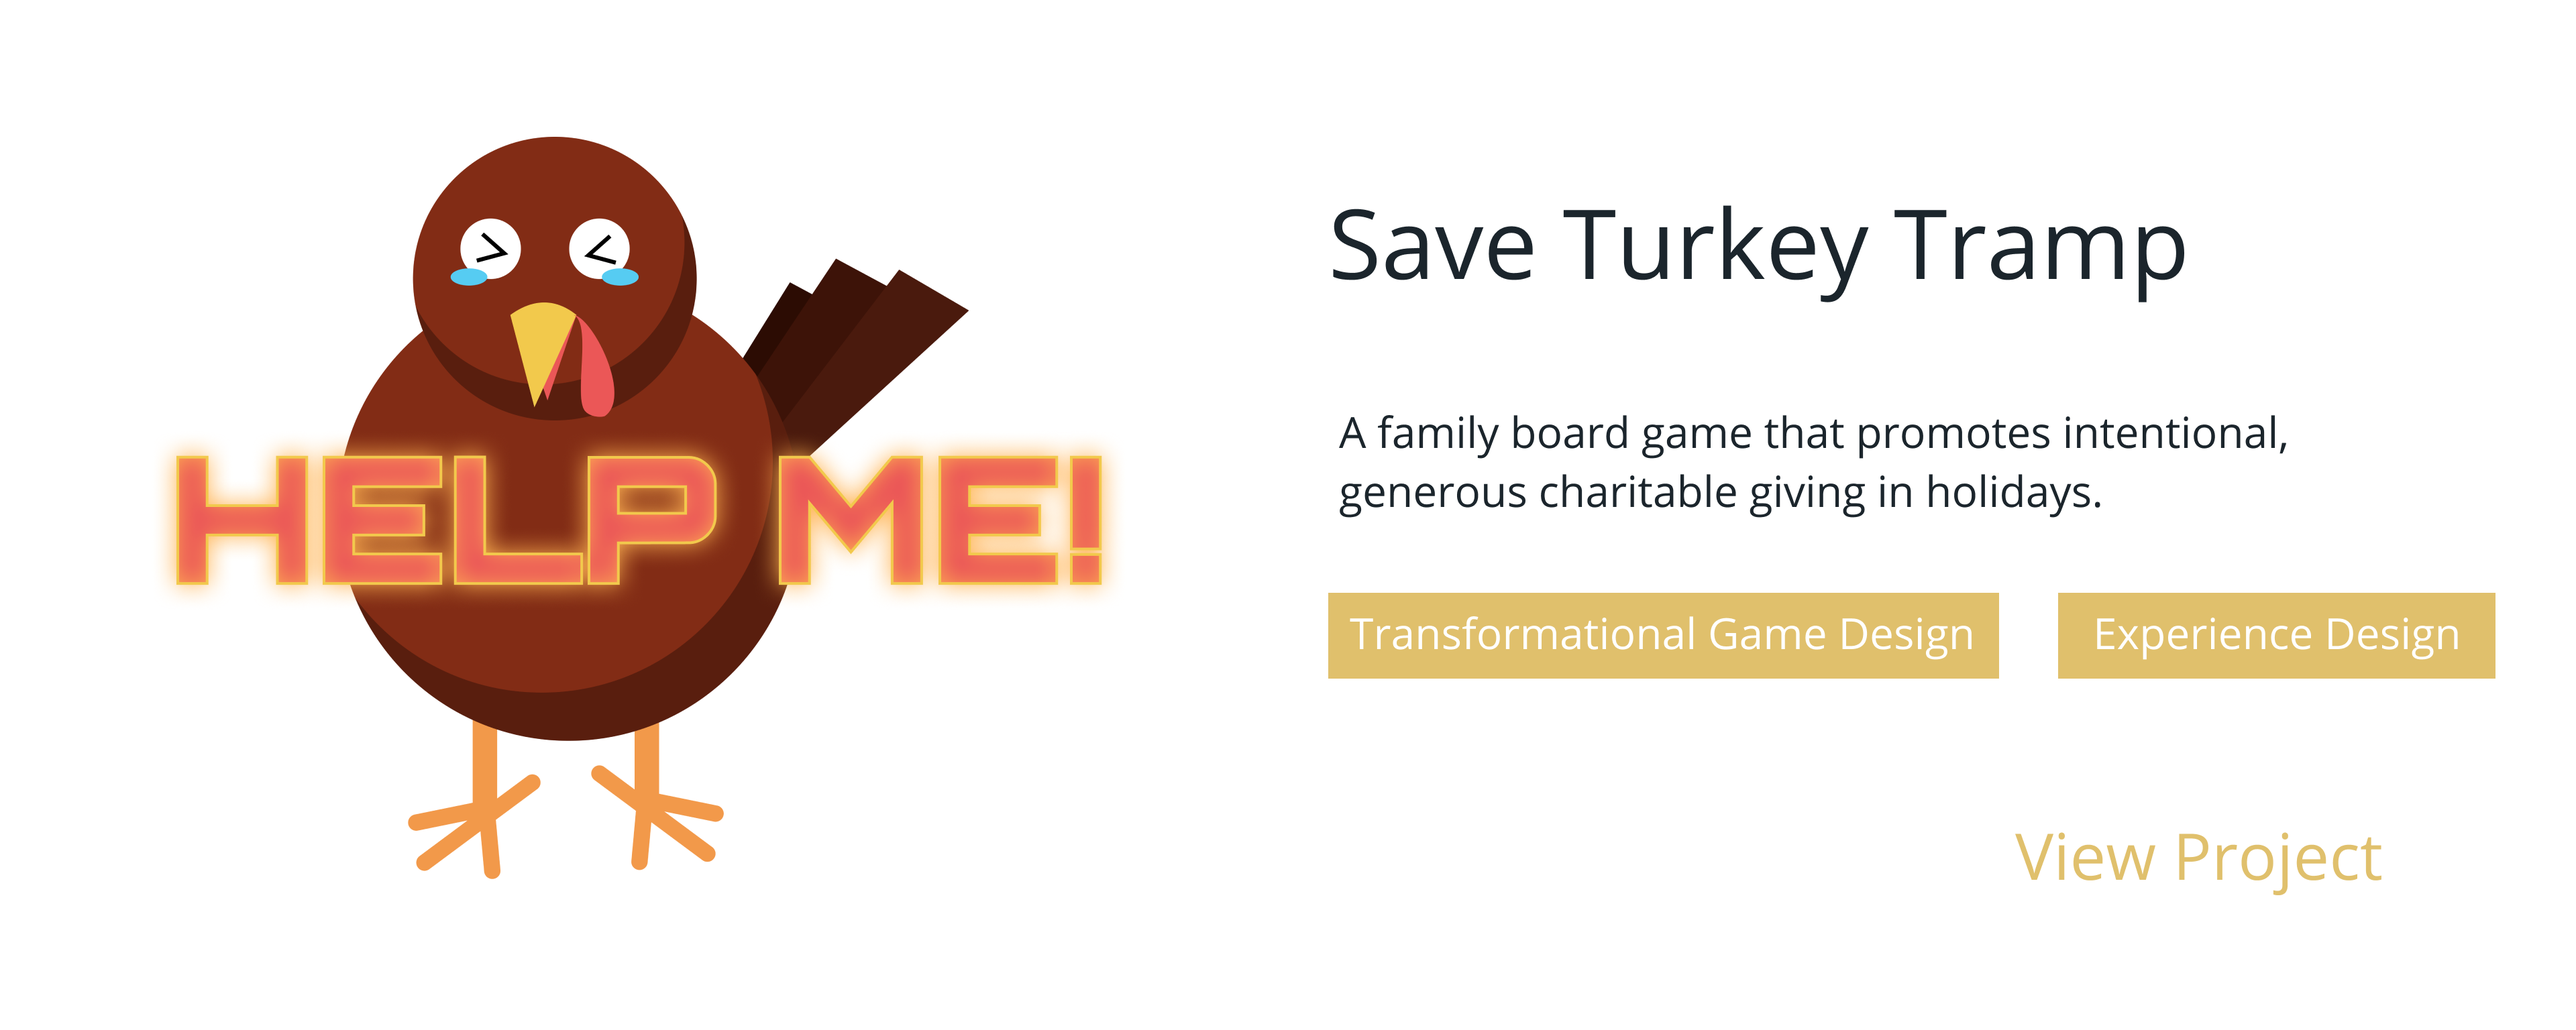
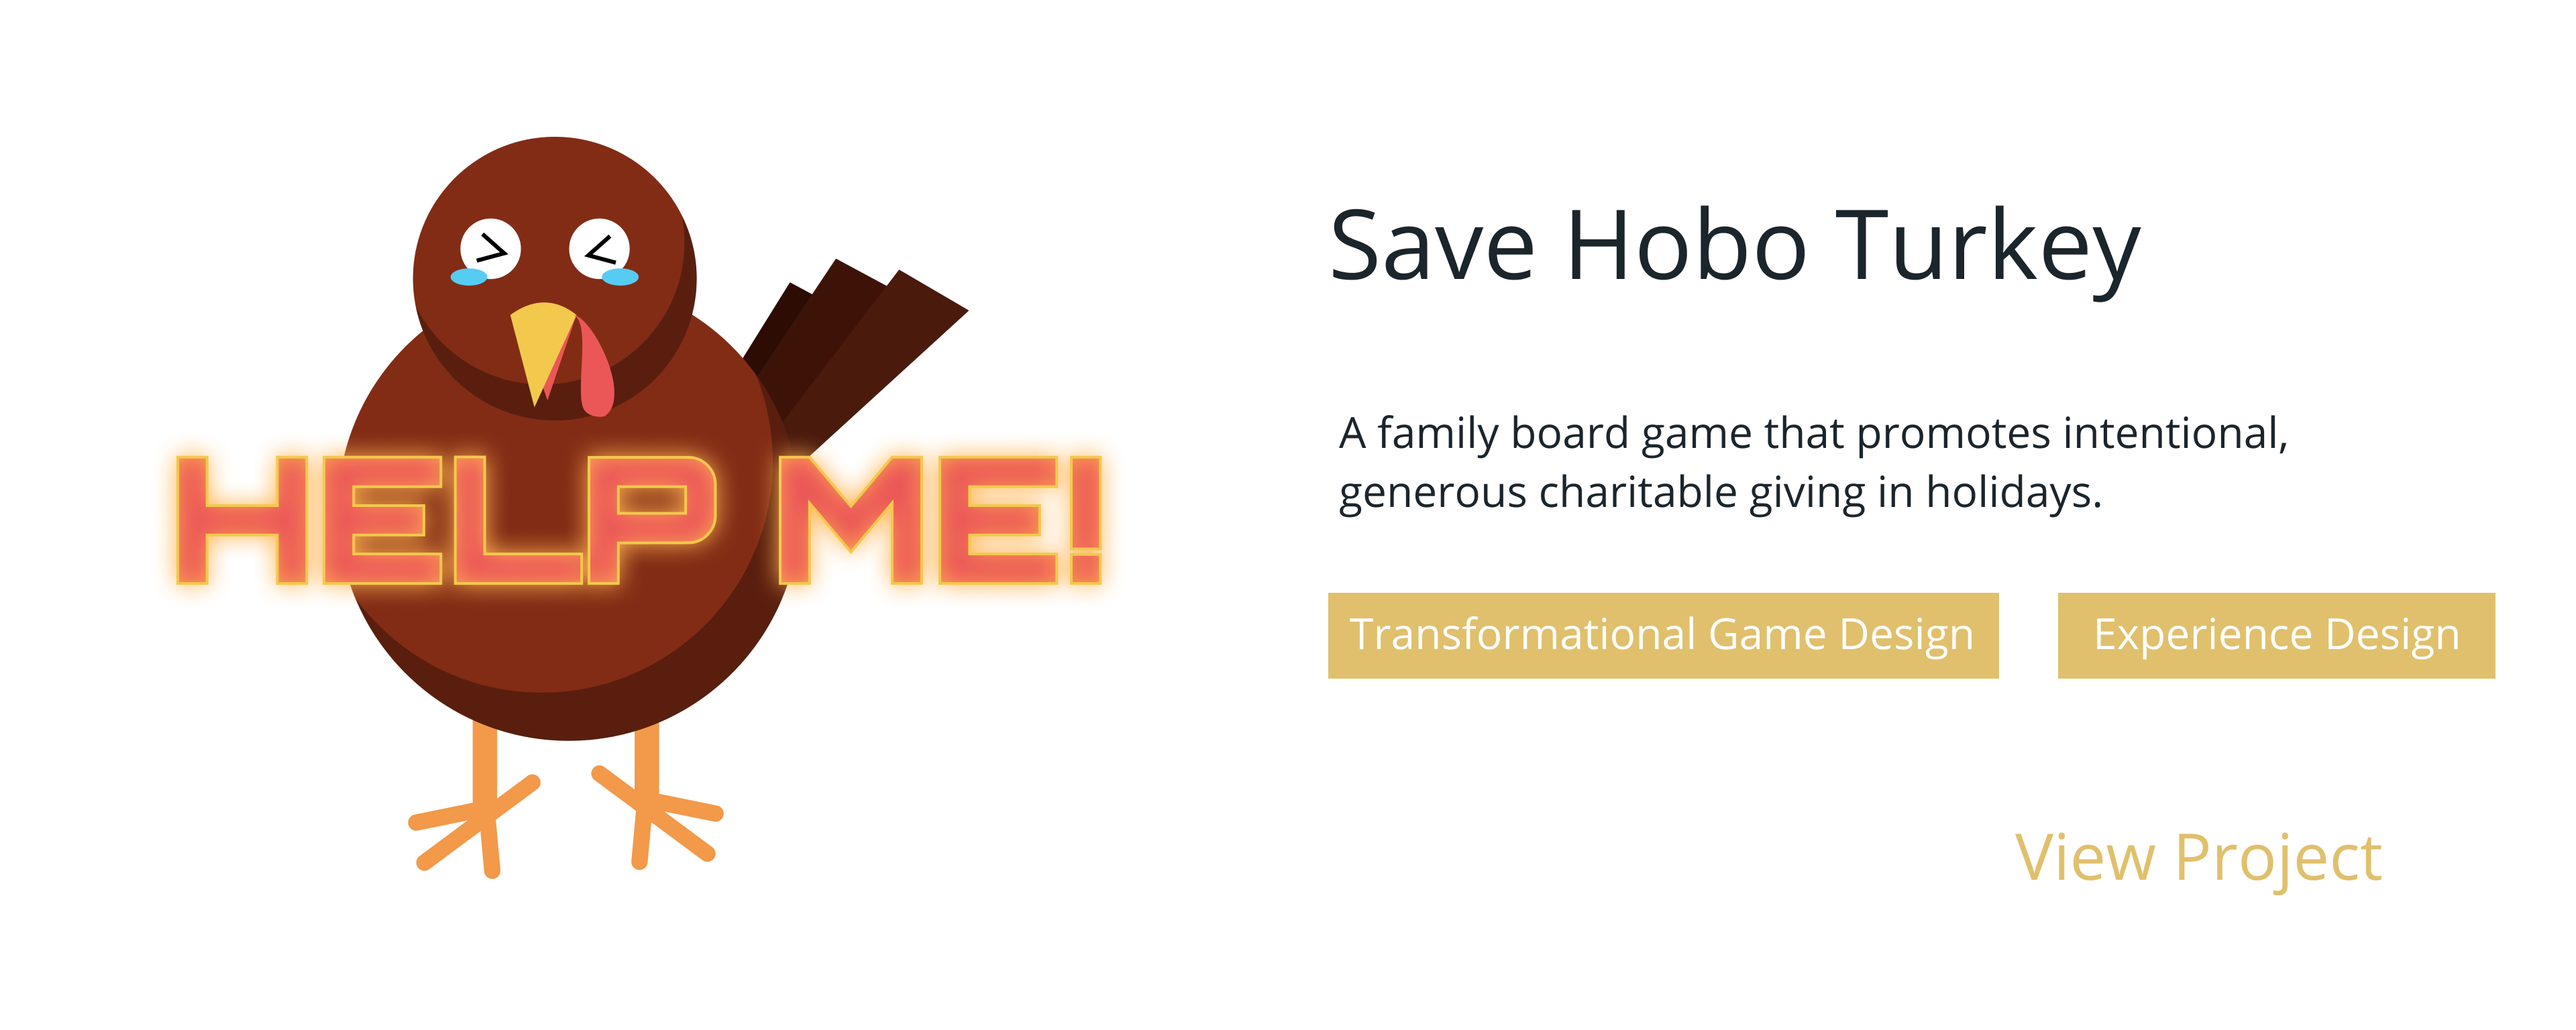
update turkey name

Changed region(s): [[0.5938, 0.1875, 0.8438, 0.3125]]

diff --git a/turkey.html b/turkey.html
@@ -5,7 +5,7 @@
     <meta charset="UTF-8">
     <meta name="viewport" content="width=device-width, initial-scale=1.0">
     <meta http-equiv="X-UA-Compatible" content="ie=edge">
-    <title>Save Turkey Tramp</title>
+    <title>Save Hobo Turkey</title>
     <link rel="icon" href="images/portrait.png" type="image/gif">
     <!-- bootstrap.min.css -->
     <link rel="stylesheet" href="css/bootstrap.min.css">
